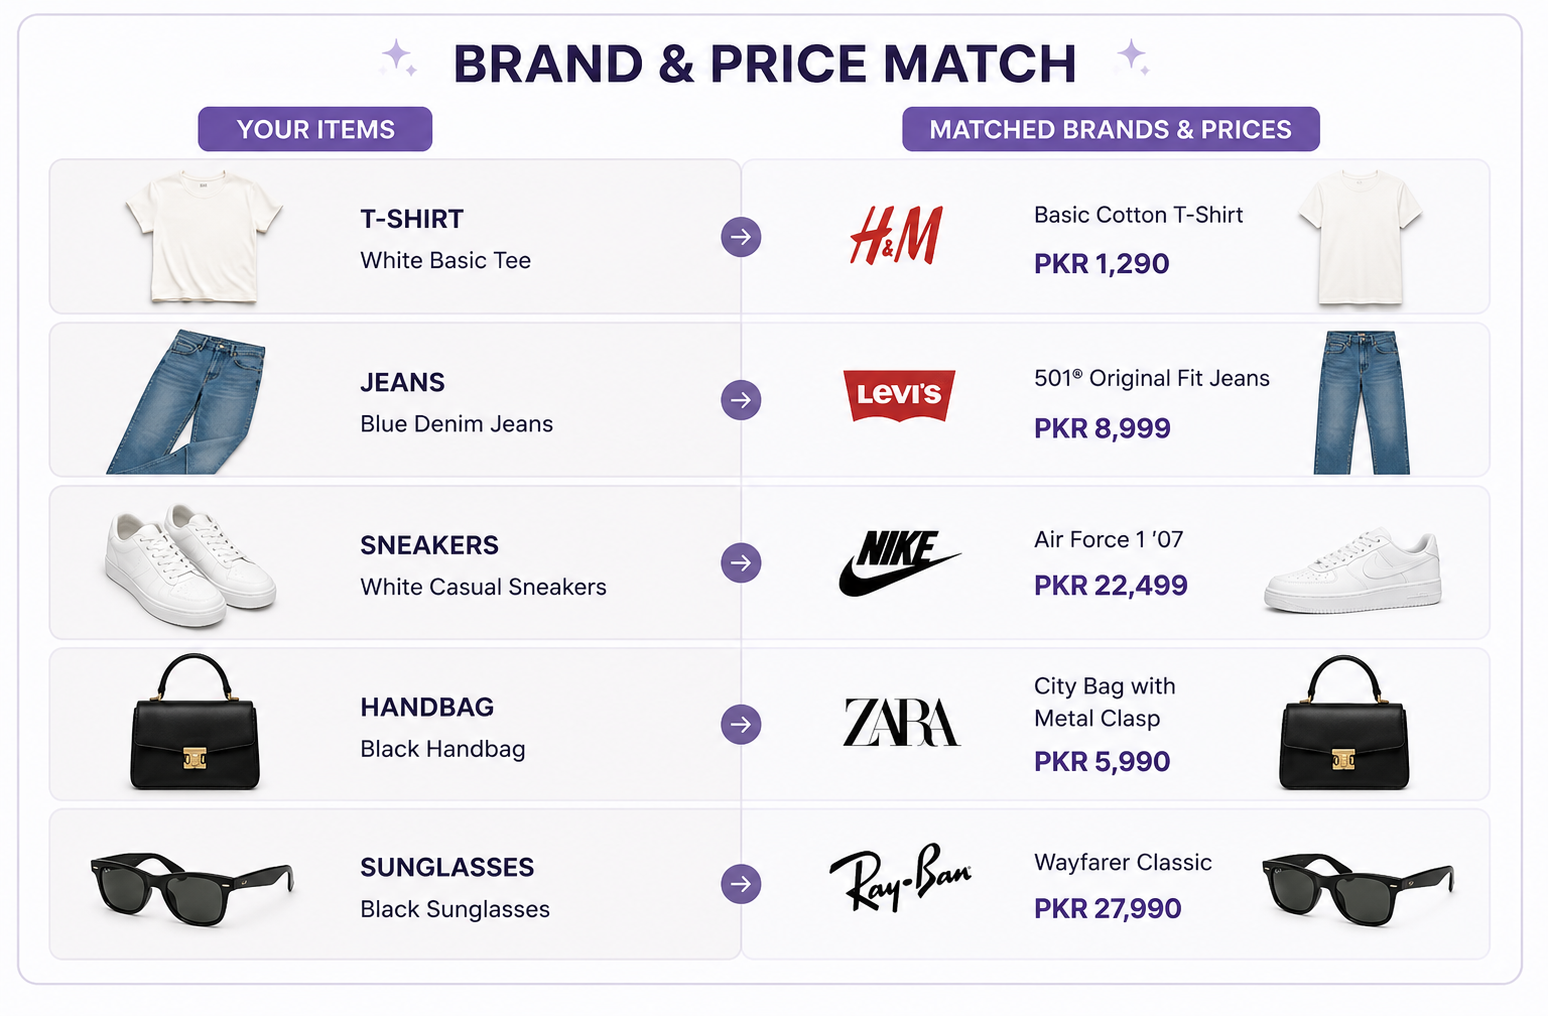
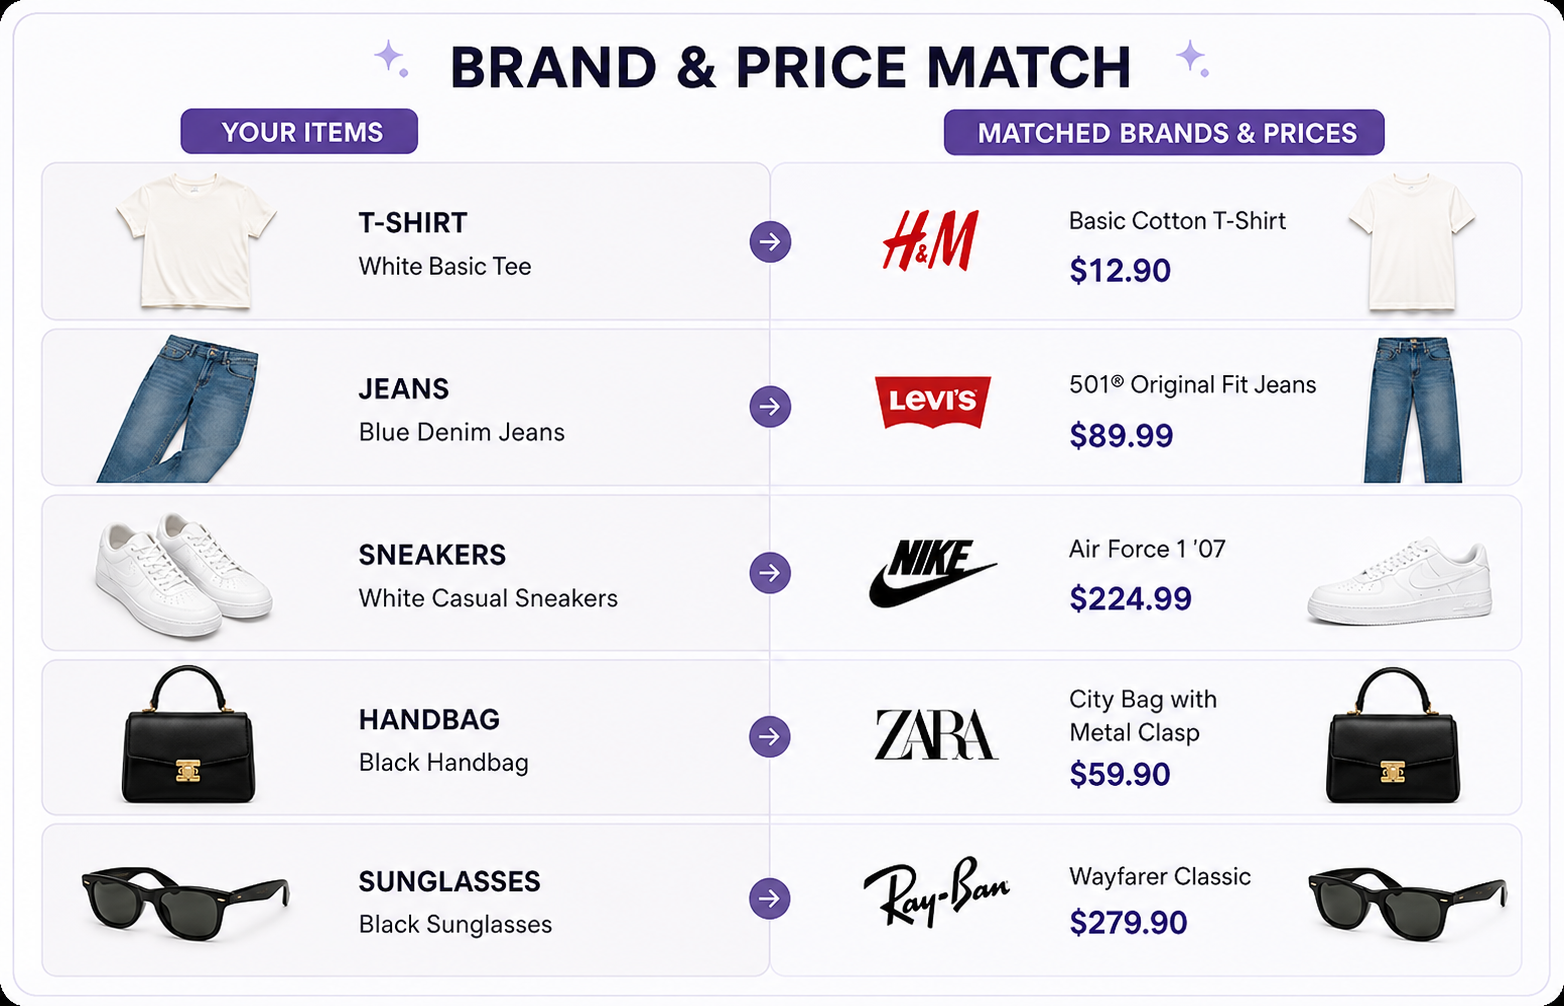
Sync Features section images with Figma
brand-price-match.png showed PKR pricing; related-item-discovery.png had
garbled AI-generated text ("Similur Attomatives", "Medum Quited Bag") and
mismatched prices. Replaced both with the exact assets exported from the
updated Figma file and adjusted the Brand & Price Match card's aspect
ratio to match the new image's dimensions.

Figma: https://www.figma.com/design/qLJJkuBbFT9SBQz50wRiOv/Steyel--Copy-?node-id=2041-2

Claude-Session: https://claude.ai/code/session_01WaLHyHHY18o6CdMKVif3nx

diff --git a/src/components/home/Features.tsx b/src/components/home/Features.tsx
@@ -16,7 +16,7 @@ const FEATURES = [
     title: "Brand & Price Match",
     description: "Integrated with over 5,000 global retailers to give you real-time pricing and stock status.",
     image: "/images/home/features/brand-price-match.png",
-    imageAspect: "aspect-[530/337]",
+    imageAspect: "aspect-[1564/1006]",
   },
   {
     icon: "/images/home/features/icon-folder.svg",
